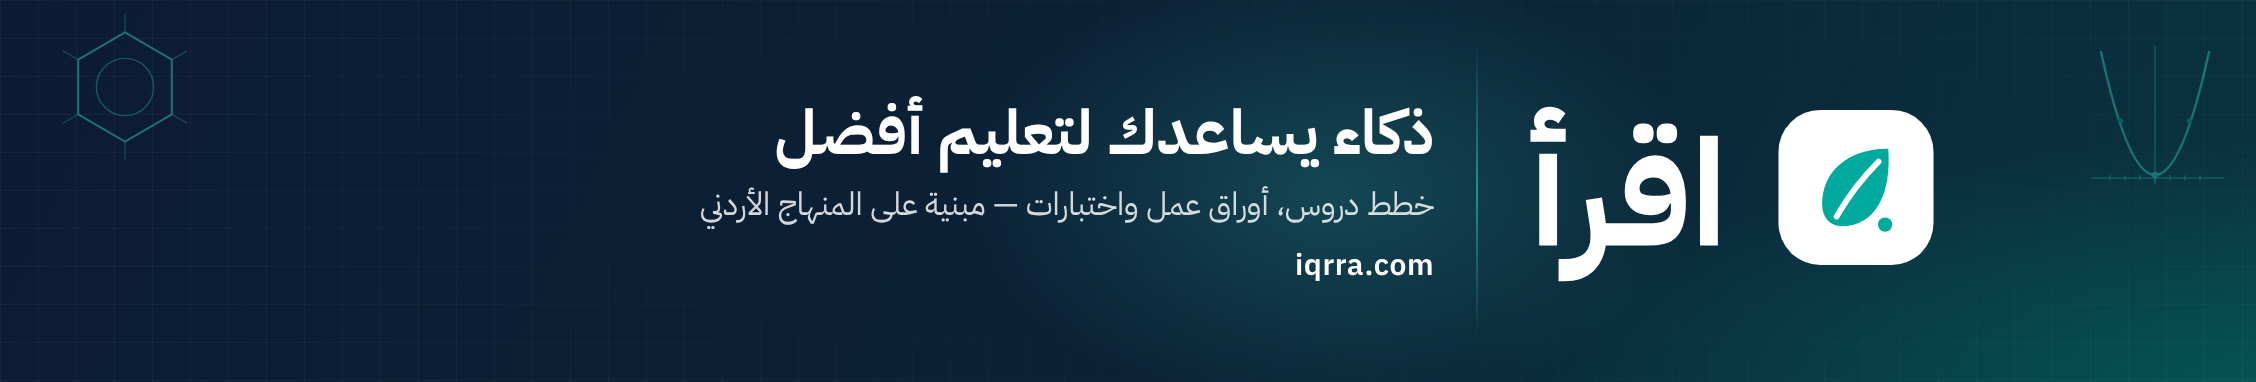
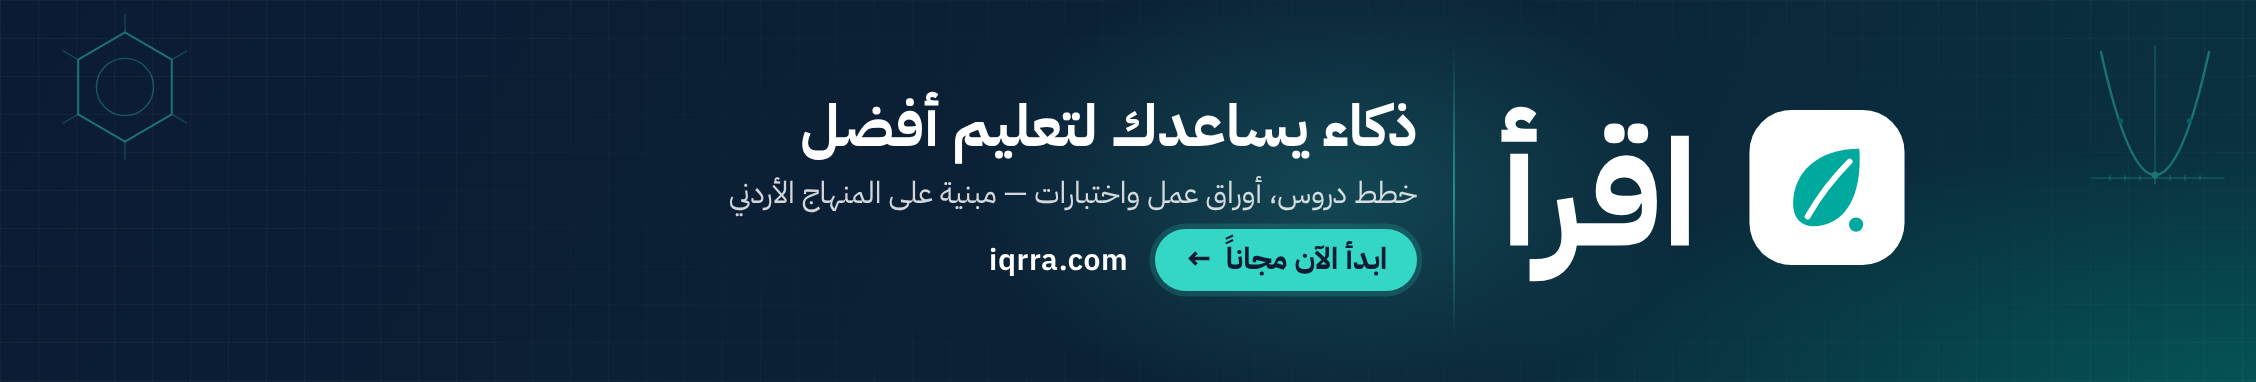
Add a "start now for free" button to the social covers
Every cover now carries «ابدأ الآن مجاناً ←» beside iqrra.com, and the
English line on Facebook and YouTube reads "Free AI teaching assistant
for Jordanian teachers". The build's overflow check covers the new
elements, so all of it stays inside each platform's safe zone.

Claude-Session: https://claude.ai/code/session_01VikuhZYoNHn8HSWbcaV28N

Changed region(s): [[0.3103, 0.2304, 0.8688, 0.7775]]

diff --git a/marketing/social-covers/covers.html b/marketing/social-covers/covers.html
@@ -29,6 +29,10 @@ html,body{background:var(--ink)}
 .row .meta{justify-content:flex-start}
 .stack .meta{justify-content:center}
 .dot{width:.32em;height:.32em;border-radius:50%;background:var(--teal);flex:none}
+.cta{direction:rtl;display:inline-flex;align-items:center;gap:.45em;background:var(--aqua);color:var(--ink);
+  font-weight:700;line-height:1;padding:.5em 1em .55em;border-radius:999px;white-space:nowrap;
+  box-shadow:0 0 0 .18em rgba(52,214,198,.18)}
+.enline{margin-top:.7em}
 .divider{align-self:stretch;width:2px;background:linear-gradient(transparent,rgba(52,214,198,.55),transparent)}
 .guide{position:absolute;border:3px dashed;font:600 18px/1.2 Plex,sans-serif;padding:6px 10px;direction:ltr}
 .guide span{background:rgba(11,27,51,.85);padding:2px 6px;border-radius:4px}
@@ -85,7 +89,8 @@ const art=(name,x,y,size,op=.5,rot=0)=>
 const COPY={
   tag:'ذكاء يساعدك لتعليم أفضل',
   sub:'خطط دروس، أوراق عمل واختبارات — مبنية على المنهاج الأردني',
-  en:'AI teaching assistant for Jordanian teachers',
+  en:'Free AI teaching assistant for Jordanian teachers',
+  cta:'ابدأ الآن مجاناً',
   url:'iqrra.com',
 };
 
@@ -99,7 +104,7 @@ const SPECS={
       {k:'safe',x:265,y:0,w:1110,h:624,t:'Mobile view — centre 1110 px (sides cropped)'},
       {k:'avoid',x:0,y:470,w:420,h:154,t:'Profile photo (desktop)'},
     ],
-    content:{x:300,y:70,w:1040,h:440,layout:'stack',logo:330,tag:58,sub:27,en:19,url:24,gap:22},
+    content:{x:300,y:70,w:1040,h:440,layout:'stack',logo:280,tag:56,sub:26,en:18,url:24,cta:24,gap:18},
     art:[['parabola',40,90,220,.45],['benzene',1420,70,180,.5],['orbit',1430,380,150,.35]],
   },
   youtube:{
@@ -111,7 +116,7 @@ const SPECS={
       {k:'band',x:352,y:508,w:1856,h:424,t:'Tablet — 1855 × 423',bottom:true},
       {k:'safe',x:507,y:508,w:1546,h:424,t:'Safe on every device — 1546 × 423'},
     ],
-    content:{x:560,y:528,w:1440,h:384,layout:'row',logo:420,tag:76,sub:32,en:24,url:28,gap:18},
+    content:{x:560,y:528,w:1440,h:384,layout:'row',logo:420,tag:72,sub:31,en:22,url:30,cta:30,gap:16},
     art:[['parabola',150,520,300,.45],['benzene',2130,530,260,.45],
          ['orbit',2200,180,380,.22],['parabola',260,980,360,.18,180],['benzene',1100,1060,300,.14],['orbit',1150,40,320,.12]],
   },
@@ -122,7 +127,7 @@ const SPECS={
       {k:'safe',x:228,y:30,w:1800,h:322,t:'Mobile — centre ~900 px (×2)'},
       {k:'avoid',x:0,y:140,w:600,h:242,t:'Company logo'},
     ],
-    content:{x:640,y:44,w:1360,h:294,layout:'row',logo:420,tag:62,sub:32,url:30,gap:14},
+    content:{x:640,y:44,w:1360,h:294,layout:'row',logo:420,tag:58,sub:30,url:30,cta:30,gap:12},
     art:[['benzene',60,22,130,.45],['parabola',2080,40,150,.4]],
   },
   linkedin_profile:{
@@ -132,7 +137,7 @@ const SPECS={
       {k:'avoid',x:0,y:170,w:540,h:226,t:'Profile photo'},
       {k:'safe',x:560,y:30,w:990,h:336,t:'Clear of the photo'},
     ],
-    content:{x:590,y:46,w:940,h:304,layout:'row',logo:290,tag:46,sub:23,url:24,gap:12},
+    content:{x:590,y:46,w:940,h:304,layout:'row',logo:290,tag:44,sub:22,url:23,cta:23,gap:11},
     art:[['benzene',70,26,130,.45],['orbit',300,40,110,.3]],
   },
 };
@@ -154,8 +159,9 @@ function render(name,guides){
   const deco=s.art.map(a=>art(...a)).join('');
   // LinkedIn shows its banners at about half the upload size, so a small
   // English line there would land near 8 px; those covers carry the URL only.
-  const en=c.en?`<span class="en" style="font-size:${c.en}px">Iqrra · ${COPY.en}</span><span class="dot"></span>`:'';
-  const meta=`<div class="meta" style="font-size:${c.url}px;margin-top:${c.gap}px">${en}<span class="url">${COPY.url}</span></div>`;
+  const en=c.en?`<div class="en enline" style="font-size:${c.en}px">Iqrra · ${COPY.en}</div>`:'';
+  const meta=`<div class="meta" style="font-size:${c.url}px;margin-top:${c.gap*1.2}px">
+      <span class="cta" style="font-size:${c.cta}px">${COPY.cta}<span aria-hidden="true">←</span></span><span class="url">${COPY.url}</span></div>${en}`;
   const text=`<div class="text">
       <div class="tag" style="font-size:${c.tag}px">${COPY.tag}</div>
       <div class="sub" style="font-size:${c.sub}px;margin-top:${c.gap*.5}px">${COPY.sub}</div>${meta}</div>`;

diff --git a/marketing/social-covers/README.md b/marketing/social-covers/README.md
@@ -19,8 +19,8 @@ the phone app.
 
 - «ذكاء يساعدك لتعليم أفضل» is the existing tagline.
 - «خطط دروس، أوراق عمل واختبارات — مبنية على المنهاج الأردني»
-- *Iqrra · AI teaching assistant for Jordanian teachers*. This line is left off the LinkedIn banners: LinkedIn shows them at about half size, so it would render at roughly 8 px.
-- `iqrra.com`
+- A call-to-action button, «ابدأ الآن مجاناً ←» ("start now for free"), beside `iqrra.com`. The arrow points left, the direction you read Arabic in.
+- *Iqrra · Free AI teaching assistant for Jordanian teachers*. This line is left off the LinkedIn banners: LinkedIn shows them at about half size, so it would render at roughly 8 px.
 
 ## Rebuilding
 
